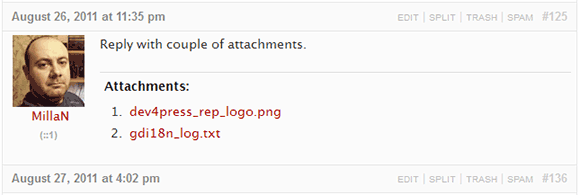
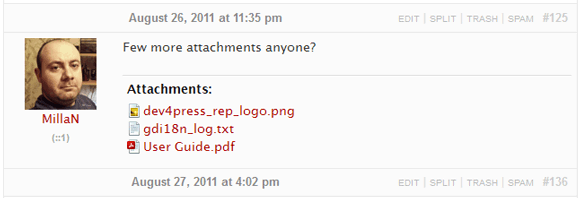
git-svn-id: https://plugins.svn.wordpress.org/gd-bbpress-attachments/trunk@441432 b8457f37-d9ea-0310-8a92-e5e31aec5664

diff --git a/css/gd-bbpress-attachments.css b/css/gd-bbpress-attachments.css
@@ -1,18 +1,109 @@
-.bbp-attachments { 
-    border-top: 1px solid #dddddd;
-    margin-top: 20px;
-    padding: 5px;
+.bbp-attachments {
+	border-top: 1px solid #dddddd;
+	margin-top: 20px;
+	padding: 5px;
 }
 
 .bbp-attachments h6 {
-    margin: 0 0 5px;
+	margin: 0 0 5px;
+}
+
+.bbp-attachments li {
+	line-height: 16px;
+	height: 16px;
+	margin: 0 0 4px;
+}
+
+.bbp-attachments ol {
+	margin: 0 0 5px;
+	list-style: decimal inside none;
+}
+
+.bbp-attachments ol.with-icons {
+	list-style: none;
+}
+
+.bbp-attachments ol.with-icons li {
+	padding: 0 0 0 18px;
 }
 
 .bbp-attachments-count {
-    background: transparent url(../gfx/icons.png);
-    display: inline-block;
-    width: 16px;
-    height: 16px;
-    float: left;
-    margin-right: 4px;
+	background: transparent url(../gfx/icons.png);
+	display: inline-block;
+	width: 16px;
+	height: 16px;
+	float: left;
+	margin-right: 4px;
+}
+
+.bbp-atticon {
+	background: transparent url(../gfx/icons.png) no-repeat;
+}
+
+.bbp-atticon-ai {
+	background-position: 0 -128px;
+}
+
+.bbp-atticon-archive {
+	background-position: 0 -144px;
+}
+
+.bbp-atticon-audio {
+	background-position: 0 -256px;
+}
+
+.bbp-atticon-code {
+	background-position: 0 -32px;
+}
+
+.bbp-atticon-documents {
+	background-position: 0 -240px;
+}
+
+.bbp-atticon-excel {
+	background-position: 0 -64px;
+}
+
+.bbp-atticon-generic {
+	background-position: 0 -16px;
+}
+
+.bbp-atticon-html {
+	background-position: 0 -208px;
+}
+
+.bbp-atticon-icon {
+	background-position: 0 -272px;
+}
+
+.bbp-atticon-image {
+	background-position: 0 -96px;
+}
+
+.bbp-atticon-pdf {
+	background-position: 0 -192px;
+}
+
+.bbp-atticon-powerpoint {
+	background-position: 0 -176px;
+}
+
+.bbp-atticon-psd {
+	background-position: 0 -112px;
+}
+
+.bbp-atticon-text {
+	background-position: 0 -160px;
+}
+
+.bbp-atticon-video {
+	background-position: 0 -224px;
+}
+
+.bbp-atticon-word {
+	background-position: 0 -80px;
+}
+
+.bbp-atticon-xml {
+	background-position: 0 -48px;
 }

diff --git a/gd-bbpress-attachments.php b/gd-bbpress-attachments.php
@@ -4,7 +4,7 @@
 Plugin Name: GD bbPress Attachments
 Plugin URI: http://www.dev4press.com/plugin/gd-bbpress-attachments/
 Description: Implements attachments upload to the topics and replies in bbPress plugin through media library and adds additional forum based controls.
-Version: 1.0.4
+Version: 1.1.0
 Author: Milan Petrovic
 Author URI: http://www.dev4press.com/
 
@@ -36,6 +36,25 @@ class gdbbPressAttachments {
     private $plugin_path;
     private $plugin_url;
     private $admin_plugin = false;
+
+    private $icons = array(
+        "code" => "c|cc|h|js|class", 
+        "xml" => "xml", 
+        "excel" => "xla|xls|xlsx|xlt|xlw|xlam|xlsb|xlsm|xltm", 
+        "word" => "docx|dotx|docm|dotm", 
+        "image" => "png|gif|jpg|jpeg|jpe|jp|bmp|tif|tiff", 
+        "psd" => "psd", 
+        "ai" => "ai", 
+        "archive" => "zip|rar|gz|gzip|tar",
+        "text" => "txt|asc|nfo", 
+        "powerpoint" => "pot|pps|ppt|pptx|ppam|pptm|sldm|ppsm|potm", 
+        "pdf" => "pdf", 
+        "html" => "htm|html|css", 
+        "video" => "avi|asf|asx|wax|wmv|wmx|divx|flv|mov|qt|mpeg|mpg|mpe|mp4|m4v|ogv|mkv", 
+        "documents" => "odt|odp|ods|odg|odc|odb|odf|wp|wpd|rtf",
+        "audio" => "mp3|m4a|m4b|mp4|m4v|wav|ra|ram|ogg|oga|mid|midi|wma|mka",
+        "icon" => "ico"
+    );
 
     function __construct() {
         $this->_init();
@@ -260,6 +279,7 @@ class gdbbPressAttachments {
             $this->o["max_to_upload"] = absint(intval($_POST["max_to_upload"]));
             $this->o["roles_to_upload"] = (array)$_POST["roles_to_upload"];
             $this->o["attachment_icon"] = isset($_POST["attachment_icon"]) ? 1 : 0;
+            $this->o["attchment_icons"] = isset($_POST["attchment_icons"]) ? 1 : 0;
             $this->o["include_js"] = isset($_POST["include_js"]) ? 1 : 0;
             $this->o["include_css"] = isset($_POST["include_css"]) ? 1 : 0;
 
@@ -284,7 +304,29 @@ class gdbbPressAttachments {
                 /*<![CDATA[*/
                 .bbp-attachments { border-top: 1px solid #dddddd; margin-top: 20px; padding: 5px; }
                 .bbp-attachments h6 { margin: 0 0 5px; }
+                .bbp-attachments ol { margin: 0 0 5px; list-style: decimal inside none; }
+                .bbp-attachments ol.with-icons { list-style: none; }
+                .bbp-attachments li { line-height: 16px; height: 16px; margin: 0 0 4px; }
+                .bbp-attachments ol.with-icons li { padding: 0 0 0 18px; }
                 .bbp-attachments-count { background: transparent url(<?php echo GDBBPRESSATTACHMENTS_URL; ?>gfx/icons.png); display: inline-block; width: 16px; height: 16px; float: left; margin-right: 4px; }
+                .bbp-atticon { background: transparent url(<?php echo GDBBPRESSATTACHMENTS_URL; ?>gfx/icons.png) no-repeat; }
+                .bbp-atticon-generic { background-position: 0 -16px; }
+                .bbp-atticon-code { background-position: 0 -32px; }
+                .bbp-atticon-xml { background-position: 0 -48px; }
+                .bbp-atticon-excel { background-position: 0 -64px; }
+                .bbp-atticon-word { background-position: 0 -80px; }
+                .bbp-atticon-image { background-position: 0 -96px; }
+                .bbp-atticon-psd { background-position: 0 -112px; }
+                .bbp-atticon-ai { background-position: 0 -128px; }
+                .bbp-atticon-archive { background-position: 0 -144px; }
+                .bbp-atticon-text { background-position: 0 -160px; }
+                .bbp-atticon-powerpoint { background-position: 0 -176px; }
+                .bbp-atticon-pdf { background-position: 0 -192px; }
+                .bbp-atticon-html { background-position: 0 -208px; }
+                .bbp-atticon-video { background-position: 0 -224px; }
+                .bbp-atticon-documents { background-position: 0 -240px; }
+                .bbp-atticon-audio { background-position: 0 -256px; }
+                .bbp-atticon-icon { background-position: 0 -272px; }
                 /*]]>*/
             </style>
         <?php } ?>
@@ -350,18 +392,37 @@ class gdbbPressAttachments {
         }
     }
 
+    private function detect_icon($ext) {
+        foreach ($this->icons as $icon => $list) {
+            $list = explode("|", $list);
+            if (in_array($ext, $list)) return $icon;
+        }
+        return "generic";
+    }
+
     public function embed_attachments($content, $id) {
         $attachments = d4p_get_post_attachments($id);
         if (!empty($attachments)) {
             $content.= '<div class="bbp-attachments">';
             $content.= '<h6>'.__("Attachments", "gd-bbpress-attachments").':</h6>';
-            $content.= '<ol>';
+            $content.= '<ol';
+            if ($this->o["attchment_icons"] == 1) {
+                $content.= ' class="with-icons"';
+            }
+            $content.= '>';
+
             foreach ($attachments as $attachment) {
                 $file = get_attached_file($attachment->ID);
                 $url = wp_get_attachment_url($attachment->ID);
                 $filename = pathinfo($file, PATHINFO_BASENAME);
-                $content.= '<li><a href="'.$url.'">'.$filename.'</a></li>';
+                $content.= '<li';
+                if ($this->o["attchment_icons"] == 1) {
+                    $ext = pathinfo($file, PATHINFO_EXTENSION);
+                    $content.= ' class="bbp-atticon bbp-atticon-'.$this->detect_icon($ext).'"';
+                }
+                $content.= '><a href="'.$url.'">'.$filename.'</a></li>';
             }
+
             $content.= '</ol></div>';
         }
         return $content;

diff --git a/forms/attachments.php b/forms/attachments.php
@@ -61,6 +61,12 @@
                         <input type="checkbox" <?php if ($options["attachment_icon"] == 1) echo " checked"; ?> name="attachment_icon" />
                     </td>
                 </tr>
+                <tr valign="top">
+                    <th scope="row"><label for="attachment_icon"><?php _e("File Type Icons", "gd-bbpress-attachments"); ?></label></th>
+                    <td>
+                        <input type="checkbox" <?php if ($options["attchment_icons"] == 1) echo " checked"; ?> name="attchment_icons" />
+                    </td>
+                </tr>
             </tbody>
         </table>
         <h3><?php _e("JavaScript and CSS Settings", "gd-bbpress-attachments"); ?></h3>

diff --git a/code/defaults.php b/code/defaults.php
@@ -2,19 +2,20 @@
 
 class gdbbPressAttachments_Defaults {
     var $default_options = array(
-        "version" => "1.0.4",
-        "date" => "2011.09.19.",
+        "version" => "1.1.0",
+        "date" => "2011.09.21.",
         "status" => "Stable",
         "product_id" => "gd-bbpress-attachments",
         "edition" => "free",
         "revision" => 0,
-        "build" => 564,
+        "build" => 570,
         "include_js" => 1,
         "include_css" => 1,
         "max_file_size" => 512,
         "max_to_upload" => 4,
         "roles_to_upload" => null,
-        "attachment_icon" => 1
+        "attachment_icon" => 1,
+        "attchment_icons" => 1
     );
 
     function __construct() { }

diff --git a/code/build.php b/code/build.php
@@ -1,1 +1,1 @@
-<?php $build = 564; ?>
+<?php $build = 570; ?>
